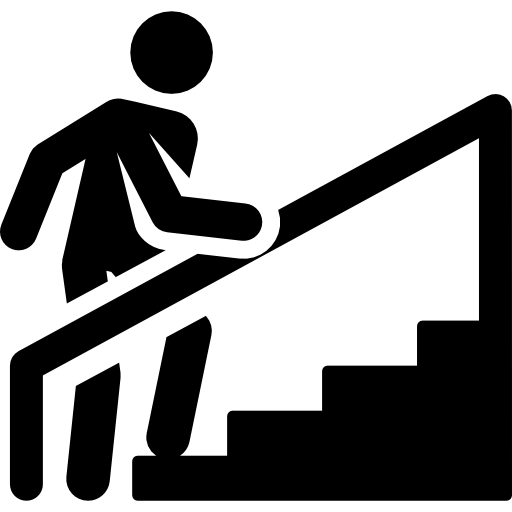
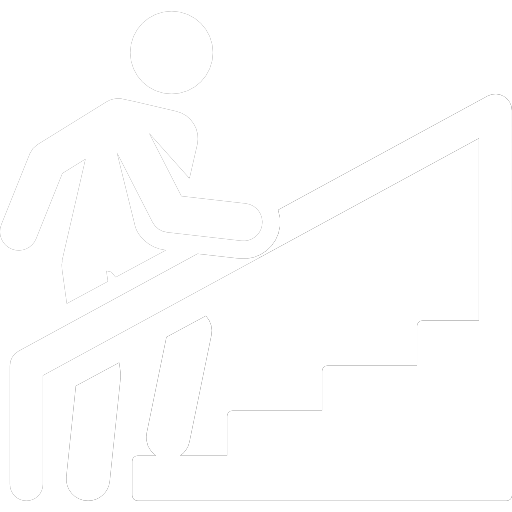
improve-asientos-selector-ui-and-select-50

diff --git a/src/components/AsientosBus.tsx b/src/components/AsientosBus.tsx
@@ -1,34 +1,108 @@
+import { useState } from 'react'
 import './ComStyles.css'
 
+
 const AsientosBus = () => {
+
+
+    const [piso, setPiso] = useState(2);
+    const ElegirAsiento =  (e: React.MouseEvent<HTMLImageElement>) => {
+        e.currentTarget.src="/public/seatgreen.png";
+    }
+    const AsientoOcupado =  (e: React.MouseEvent<HTMLImageElement>) => {
+        e.currentTarget.src="/public/seatred.png";
+    }
+
     return (
-        <>
+
             <div className='ab-div'>
-                <h2 className='ab-div'>
-                    2do Piso:
-                </h2>
-                <div className='ab-seat-display'>
-                    <img src="/public/seat.png" className="ab-seat-icon"/>
-                    <img src="/public/seat.png" className="ab-seat-icon"/>
-                    <img src="/public/seat.png" className="ab-seat-icon"/>
-                    <img src="/public/seat.png" className="ab-seat-icon"/>
-                    <img src="/public/seat.png" className="ab-seat-icon"/>
-                    <img src="/public/seat.png" className="ab-seat-icon"/>
-                    <img src="/public/seat.png" className="ab-seat-icon"/>
-                    <img src="/public/seat.png" className="ab-seat-icon"/>
-                    <img src="/public/seat.png" className="ab-seat-icon"/>
-                    <img src="/public/seat.png" className="ab-seat-icon"/>
+                <h2 className='ab-seat-tittle'>Seleccione de Asientos</h2>
+                <div className='ab-seat-subtittles'>
+                    <h2 onClick={()=>setPiso(1)} className={piso==1?'ab-piso-seleccionado':''}>Piso 1:</h2>
+                    <h2 onClick={()=>setPiso(2)} className={piso==2?'ab-piso-seleccionado':''}>Piso 2:</h2>
+                </div>
 
-                    <img src="/public/seat.png" className="ab-seat-icon"/>
-                    <img src="/public/seat.png" className="ab-seat-icon"/>
-                    <img src="/public/seat.png" className="ab-seat-icon"/>
-                    <img src="/public/seat.png" className="ab-seat-icon"/>
-                    <img src="/public/seat.png" className="ab-seat-icon"/>
-                    <img src="/public/seat.png" className="ab-seat-icon"/>
-                    <img src="/public/seat.png" className="ab-seat-icon"/>
-                    <img src="/public/seat.png" className="ab-seat-icon"/>
-                    <img src="/public/seat.png" className="ab-seat-icon"/>
-                    <img src="/public/seat.png" className="ab-seat-icon"/>
+
+                {piso==1?
+                (<div className='ab-seat-display'>
+                    <img onAuxClick={(e)=>AsientoOcupado(e)} onClick={(e)=>ElegirAsiento(e)} src="/public/seat.png" className="ab-seat-icon"/>
+                    <img onAuxClick={(e)=>AsientoOcupado(e)} onClick={(e)=>ElegirAsiento(e)} src="/public/seat.png" className="ab-seat-icon"/>
+                    <img onAuxClick={(e)=>AsientoOcupado(e)} onClick={(e)=>ElegirAsiento(e)} src="/public/seat.png" className="ab-seat-icon"/>
+                    <img onAuxClick={(e)=>AsientoOcupado(e)} onClick={(e)=>ElegirAsiento(e)} src="/public/seat.png" className="ab-seat-icon"/>
+                    <img onAuxClick={(e)=>AsientoOcupado(e)} onClick={(e)=>ElegirAsiento(e)} src="/public/seat.png" className="ab-seat-icon"/>
+                    <img onAuxClick={(e)=>AsientoOcupado(e)} onClick={(e)=>ElegirAsiento(e)} src="/public/seat.png" className="ab-seat-icon"/>
+                    <img src="/public/bath.png" className="ab-stair-icon"/>
+                    <span></span>
+                    <span></span>
+                    <img src='/public/volante.png' className='ab-stair-icon' style={{transform:'rotate(90deg)'}}/>
+
+                    <img onAuxClick={(e)=>AsientoOcupado(e)} onClick={(e)=>ElegirAsiento(e)} src="/public/seat.png" className="ab-seat-icon"/>
+                    <img onAuxClick={(e)=>AsientoOcupado(e)} onClick={(e)=>ElegirAsiento(e)} src="/public/seat.png" className="ab-seat-icon"/>
+                    <img onAuxClick={(e)=>AsientoOcupado(e)} onClick={(e)=>ElegirAsiento(e)} src="/public/seat.png" className="ab-seat-icon"/>
+                    <img onAuxClick={(e)=>AsientoOcupado(e)} onClick={(e)=>ElegirAsiento(e)} src="/public/seat.png" className="ab-seat-icon"/>
+                    <img onAuxClick={(e)=>AsientoOcupado(e)} onClick={(e)=>ElegirAsiento(e)} src="/public/seat.png" className="ab-seat-icon"/>
+                    <img onAuxClick={(e)=>AsientoOcupado(e)} onClick={(e)=>ElegirAsiento(e)} src="/public/seat.png" className="ab-seat-icon"/>
+                    <span></span>
+                    <span></span>
+                    <span></span>
+                    <span></span>
+
+                    <span></span>
+                    <span></span>
+                    <img src='/public/television.png' className='ab-tv-icon'/>
+                    <span></span>
+                    <span></span>
+                    <img src='/public/television.png' className='ab-tv-icon'/>
+                    <span></span>
+                    <span></span>
+                    <span></span>
+                    <span></span>
+
+                    <img onAuxClick={(e)=>AsientoOcupado(e)} onClick={(e)=>ElegirAsiento(e)} src="/public/seat.png" className="ab-seat-icon"/>
+                    <img onAuxClick={(e)=>AsientoOcupado(e)} onClick={(e)=>ElegirAsiento(e)} src="/public/seat.png" className="ab-seat-icon"/>
+                    <img onAuxClick={(e)=>AsientoOcupado(e)} onClick={(e)=>ElegirAsiento(e)} src="/public/seat.png" className="ab-seat-icon"/>
+                    <img onAuxClick={(e)=>AsientoOcupado(e)} onClick={(e)=>ElegirAsiento(e)} src="/public/seat.png" className="ab-seat-icon"/>
+                    <img onAuxClick={(e)=>AsientoOcupado(e)} onClick={(e)=>ElegirAsiento(e)} src="/public/seat.png" className="ab-seat-icon"/>
+                    <img onAuxClick={(e)=>AsientoOcupado(e)} onClick={(e)=>ElegirAsiento(e)} src="/public/seat.png" className="ab-seat-icon"/>
+                    <img src="/public/escalera.png" className="ab-stair-icon"/>
+                    <img src="/public/salida.png" className="ab-stair-icon"/>
+                    <span></span>
+                    <span></span>
+
+                    <img onAuxClick={(e)=>AsientoOcupado(e)} onClick={(e)=>ElegirAsiento(e)} src="/public/seat.png" className="ab-seat-icon"/>
+                    <img onAuxClick={(e)=>AsientoOcupado(e)} onClick={(e)=>ElegirAsiento(e)} src="/public/seat.png" className="ab-seat-icon"/>
+                    <img onAuxClick={(e)=>AsientoOcupado(e)} onClick={(e)=>ElegirAsiento(e)} src="/public/seat.png" className="ab-seat-icon"/>
+                    <img onAuxClick={(e)=>AsientoOcupado(e)} onClick={(e)=>ElegirAsiento(e)} src="/public/seat.png" className="ab-seat-icon"/>
+                    <img onAuxClick={(e)=>AsientoOcupado(e)} onClick={(e)=>ElegirAsiento(e)} src="/public/seat.png" className="ab-seat-icon"/>
+                    <img onAuxClick={(e)=>AsientoOcupado(e)} onClick={(e)=>ElegirAsiento(e)} src="/public/seat.png" className="ab-seat-icon"/>
+                    <span></span>
+                    <span></span>
+                    <span></span>
+                    <span></span>
+                </div>):''}
+                {piso==2?
+                (<div className='ab-seat-display'>
+                    <img onAuxClick={(e)=>AsientoOcupado(e)} onClick={(e)=>ElegirAsiento(e)} src="/public/seat.png" className="ab-seat-icon"/>
+                    <img onAuxClick={(e)=>AsientoOcupado(e)} onClick={(e)=>ElegirAsiento(e)} src="/public/seat.png" className="ab-seat-icon"/>
+                    <img onAuxClick={(e)=>AsientoOcupado(e)} onClick={(e)=>ElegirAsiento(e)} src="/public/seat.png" className="ab-seat-icon"/>
+                    <img onAuxClick={(e)=>AsientoOcupado(e)} onClick={(e)=>ElegirAsiento(e)} src="/public/seat.png" className="ab-seat-icon"/>
+                    <img onAuxClick={(e)=>AsientoOcupado(e)} onClick={(e)=>ElegirAsiento(e)} src="/public/seat.png" className="ab-seat-icon"/>
+                    <img onAuxClick={(e)=>AsientoOcupado(e)} onClick={(e)=>ElegirAsiento(e)} src="/public/seat.png" className="ab-seat-icon"/>
+                    <img onAuxClick={(e)=>AsientoOcupado(e)} onClick={(e)=>ElegirAsiento(e)} src="/public/seat.png" className="ab-seat-icon"/>
+                    <img onAuxClick={(e)=>AsientoOcupado(e)} onClick={(e)=>ElegirAsiento(e)} src="/public/seat.png" className="ab-seat-icon"/>
+                    <img onAuxClick={(e)=>AsientoOcupado(e)} onClick={(e)=>ElegirAsiento(e)} src="/public/seat.png" className="ab-seat-icon"/>
+                    <img onAuxClick={(e)=>AsientoOcupado(e)} onClick={(e)=>ElegirAsiento(e)} src="/public/seat.png" className="ab-seat-icon"/>
+
+                    <img onAuxClick={(e)=>AsientoOcupado(e)} onClick={(e)=>ElegirAsiento(e)} src="/public/seat.png" className="ab-seat-icon"/>
+                    <img onAuxClick={(e)=>AsientoOcupado(e)} onClick={(e)=>ElegirAsiento(e)} src="/public/seat.png" className="ab-seat-icon"/>
+                    <img onAuxClick={(e)=>AsientoOcupado(e)} onClick={(e)=>ElegirAsiento(e)} src="/public/seat.png" className="ab-seat-icon"/>
+                    <img onAuxClick={(e)=>AsientoOcupado(e)} onClick={(e)=>ElegirAsiento(e)} src="/public/seat.png" className="ab-seat-icon"/>
+                    <img onAuxClick={(e)=>AsientoOcupado(e)} onClick={(e)=>ElegirAsiento(e)} src="/public/seat.png" className="ab-seat-icon"/>
+                    <img onAuxClick={(e)=>AsientoOcupado(e)} onClick={(e)=>ElegirAsiento(e)} src="/public/seat.png" className="ab-seat-icon"/>
+                    <img onAuxClick={(e)=>AsientoOcupado(e)} onClick={(e)=>ElegirAsiento(e)} src="/public/seat.png" className="ab-seat-icon"/>
+                    <img onAuxClick={(e)=>AsientoOcupado(e)} onClick={(e)=>ElegirAsiento(e)} src="/public/seat.png" className="ab-seat-icon"/>
+                    <img onAuxClick={(e)=>AsientoOcupado(e)} onClick={(e)=>ElegirAsiento(e)} src="/public/seat.png" className="ab-seat-icon"/>
+                    <img onAuxClick={(e)=>AsientoOcupado(e)} onClick={(e)=>ElegirAsiento(e)} src="/public/seat.png" className="ab-seat-icon"/>
 
                     <span></span>
                     <span></span>
@@ -41,38 +115,29 @@ const AsientosBus = () => {
                     <span></span>
                     <img src='/public/television.png' className='ab-tv-icon'/>
 
-                    <img src="/public/seat.png" className="ab-seat-icon"/>
-                    <img src="/public/seat.png" className="ab-seat-icon"/>
-                    <img src="/public/seat.png" className="ab-seat-icon"/>
-                    <img src="/public/seat.png" className="ab-seat-icon"/>
-                    <img src="/public/seat.png" className="ab-seat-icon"/>
-                    <img src="/public/seat.png" className="ab-seat-icon"/>
+                    <img onAuxClick={(e)=>AsientoOcupado(e)} onClick={(e)=>ElegirAsiento(e)} src="/public/seat.png" className="ab-seat-icon"/>
+                    <img onAuxClick={(e)=>AsientoOcupado(e)} onClick={(e)=>ElegirAsiento(e)} src="/public/seat.png" className="ab-seat-icon"/>
+                    <img onAuxClick={(e)=>AsientoOcupado(e)} onClick={(e)=>ElegirAsiento(e)} src="/public/seat.png" className="ab-seat-icon"/>
+                    <img onAuxClick={(e)=>AsientoOcupado(e)} onClick={(e)=>ElegirAsiento(e)} src="/public/seat.png" className="ab-seat-icon"/>
+                    <img onAuxClick={(e)=>AsientoOcupado(e)} onClick={(e)=>ElegirAsiento(e)} src="/public/seat.png" className="ab-seat-icon"/>
+                    <img onAuxClick={(e)=>AsientoOcupado(e)} onClick={(e)=>ElegirAsiento(e)} src="/public/seat.png" className="ab-seat-icon"/>
                     <img src="/public/escalera.png" className="ab-stair-icon"/>
                     <span></span>
-                    <img src="/public/seat.png" className="ab-seat-icon"/>
-                    <img src="/public/seat.png" className="ab-seat-icon"/>
+                    <img onAuxClick={(e)=>AsientoOcupado(e)} onClick={(e)=>ElegirAsiento(e)} src="/public/seat.png" className="ab-seat-icon"/>
+                    <img onAuxClick={(e)=>AsientoOcupado(e)} onClick={(e)=>ElegirAsiento(e)} src="/public/seat.png" className="ab-seat-icon"/>
 
-                    <img src="/public/seat.png" className="ab-seat-icon"/>
-                    <img src="/public/seat.png" className="ab-seat-icon"/>
-                    <img src="/public/seat.png" className="ab-seat-icon"/>
-                    <img src="/public/seat.png" className="ab-seat-icon"/>
-                    <img src="/public/seat.png" className="ab-seat-icon"/>
-                    <img src="/public/seat.png" className="ab-seat-icon"/>
+                    <img onAuxClick={(e)=>AsientoOcupado(e)} onClick={(e)=>ElegirAsiento(e)} src="/public/seat.png" className="ab-seat-icon"/>
+                    <img onAuxClick={(e)=>AsientoOcupado(e)} onClick={(e)=>ElegirAsiento(e)} src="/public/seat.png" className="ab-seat-icon"/>
+                    <img onAuxClick={(e)=>AsientoOcupado(e)} onClick={(e)=>ElegirAsiento(e)} src="/public/seat.png" className="ab-seat-icon"/>
+                    <img onAuxClick={(e)=>AsientoOcupado(e)} onClick={(e)=>ElegirAsiento(e)} src="/public/seat.png" className="ab-seat-icon"/>
+                    <img onAuxClick={(e)=>AsientoOcupado(e)} onClick={(e)=>ElegirAsiento(e)} src="/public/seat.png" className="ab-seat-icon"/>
+                    <img onAuxClick={(e)=>AsientoOcupado(e)} onClick={(e)=>ElegirAsiento(e)} src="/public/seat.png" className="ab-seat-icon"/>
                     <span></span>
                     <span></span>
-                    <img src="/public/seat.png" className="ab-seat-icon"/>
-                    <img src="/public/seat.png" className="ab-seat-icon"/>
-                </div>
+                    <img onAuxClick={(e)=>AsientoOcupado(e)} onClick={(e)=>ElegirAsiento(e)} src="/public/seat.png" className="ab-seat-icon"/>
+                    <img onAuxClick={(e)=>AsientoOcupado(e)} onClick={(e)=>ElegirAsiento(e)} src="/public/seat.png" className="ab-seat-icon"/>
+                </div>):''}
             </div>
-            <div>
-                <h2>
-                    1er Piso:
-                </h2>
-                <div>
-
-                </div>
-            </div>
-        </>
     )
 }
 

diff --git a/src/components/ComStyles.css b/src/components/ComStyles.css
@@ -239,14 +239,70 @@
 
 /* ------------------------------ ASIENTOS BUS ------------------------------ */
 
+.ab-div {
+    width: 90%;
+    display: grid;
+    margin: 25px auto;
+    align-items: center;
+}
+
+.ab-seat-tittle {
+    background-color: #202020;
+    border-radius: 10px 10px 0 0;
+    width: 50%;
+    margin: 0 auto;
+    border-bottom: 2px solid black;
+}
+
+.ab-seat-subtittles {
+
+    display: grid;
+    grid-template-columns: 50% 50%;
+    background-color: #202020;
+    border-radius: 10px 10px 0 0;
+    width: 70%;
+    margin: 0 auto;
+}
+
+.ab-seat-subtittles h2:first-child {
+    border-right: 2px solid black;
+}
+
+.ab-piso-seleccionado {
+    background-color: #404040;
+    filter: drop-shadow(0 5px 5px white);
+    z-index: 2;
+    border-radius: 10px 10px 0 0;
+}
+
+
+.ab-div-text {
+    background-color: #404040;
+    font-size: 1.5em;
+    border-radius: 10px;
+    border: 2px solid black;
+    overflow: hidden;
+}
+
+.ab-div-text h3{
+    border-top: 2px solid black;
+    cursor:pointer;
+    transition: all 1s;
+}
+
+.ab-div-text h3:hover{
+    background-color: #202020;
+    transition: all 0.25s;
+}
+
 .ab-seat-display {
-    width: 60%;
-    background-color: #b22222;
+    width: 80%;
+    background-color: #404040;
     margin: 0 auto;
     padding: 20px;
     display: grid;
     border-radius: 10px;
-    border: 4px solid orangered;
+    border: 2px solid black;
     grid-template-columns: repeat(10, 10%);
     grid-template-rows: 20% 20% 20% 20%;
 }

diff --git a/src/App.tsx b/src/App.tsx
@@ -9,8 +9,31 @@ export type UserInfo = {
   id: string,
   name: string,
   email: string,
-  password: string
+  password: string,
+  tickets: TicketInfo[];
 }
+
+export type TicketInfo = {
+  idTicket: string;
+  piso: number;
+  asiento: number;
+  origen: string;
+  destino: string;
+  fecha: Date;
+  precio: number;
+}
+
+export type Bus = {
+  idBus: string;
+  modelo: string;
+  placa: string;
+  capacidad: number;
+  asientosArriba: boolean[];
+  asientosAbajo: boolean[];
+  conductor: string;
+  amenities?: string[];
+};
+
 
 function App() {
 
